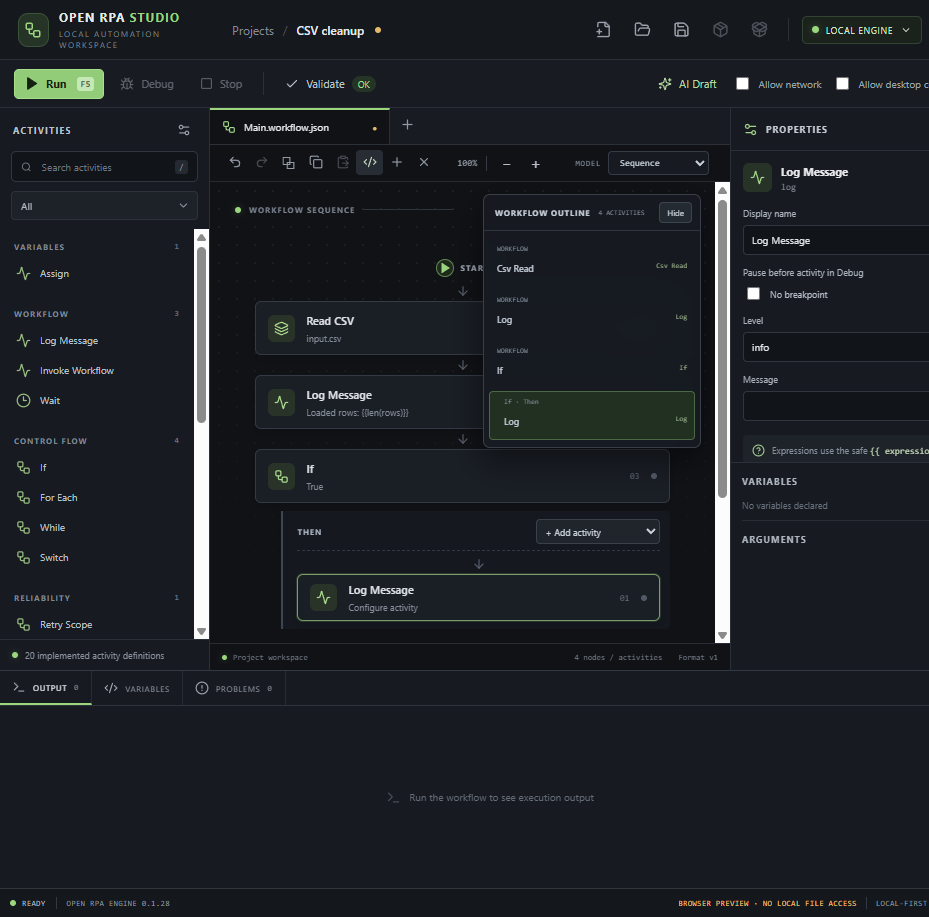
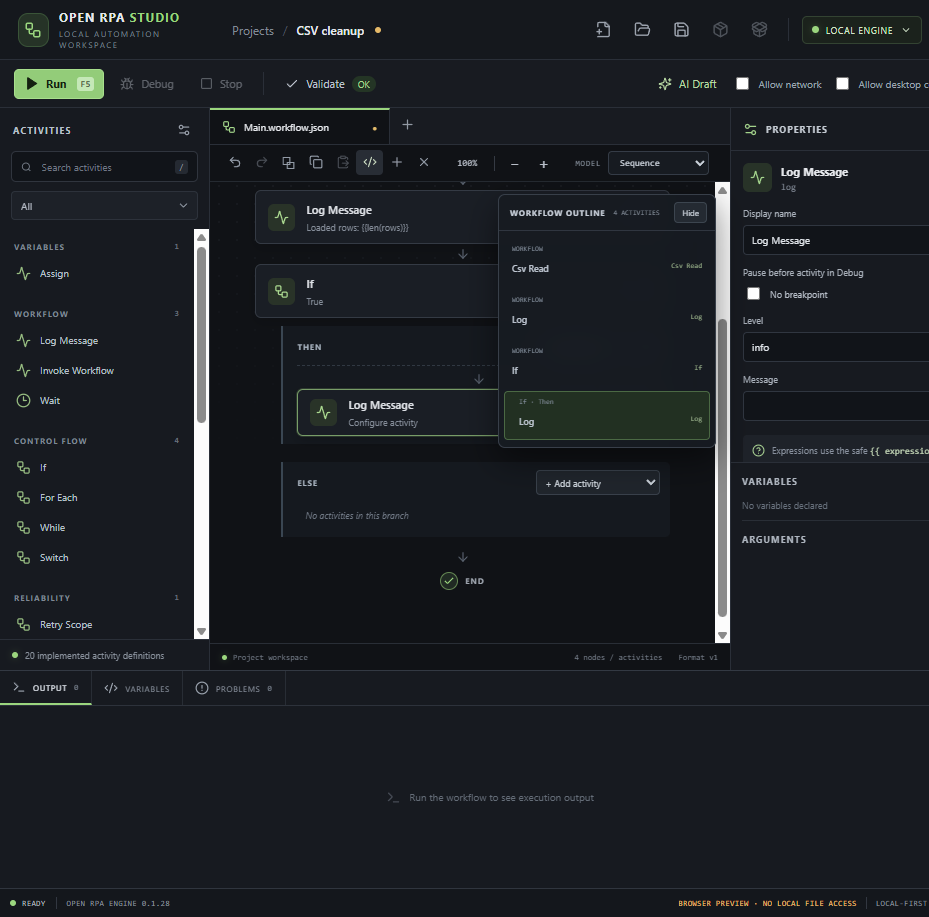
Wire sequence canvas zoom and pin workflow outline

diff --git a/src/studio/App.tsx b/src/studio/App.tsx
@@ -7,6 +7,7 @@ import { appendNestedActivity, duplicateNestedActivity, findNestedActivity, inse
 import { FlowchartEditor } from './FlowchartEditor';
 import { StateMachineMap } from './StateMachineMap';
 import { WorkflowOutline } from './WorkflowOutline';
+import { adjustCanvasZoom,MAX_CANVAS_ZOOM,MIN_CANVAS_ZOOM } from './canvasZoom';
 import { AiModelPicker } from './AiModelPicker';
 import { InvokeWorkflowEditor } from './InvokeWorkflowEditor';
 import { insertFlowchartAction, reconnectFlowchartTransition } from './flowchartEditing';
@@ -30,7 +31,7 @@ function draftPreview(workflow:Workflow):{summary:string;items:{id:string;label:
 const iconFor=(type:string)=>type==='if'||type==='for_each'||type==='while'||type==='retry'||type==='switch'||type==='try'?<WorkflowIcon size={15}/>:type.includes('csv')||type.includes('json')?<Layers size={15}/>:type.includes('file')?<HardDrive size={15}/>:type==='wait'?<Clock3 size={15}/>:<ActivityIcon size={15}/>;
 
 export default function App(){
-  const [opened,setOpened]=useState<BridgeResult>(sample);const [active,setActive]=useState('Main');const [workflowHistories,setWorkflowHistories]=useState<Record<string,WorkflowHistory<Workflow>>>({});const [catalog,setCatalog]=useState<CatalogEntry[]>([]);const [selected,setSelected]=useState<string>('read-csv');const [activityClipboard,setActivityClipboard]=useState<Activity|null>(null);const [filter,setFilter]=useState('All');const [search,setSearch]=useState('');const [run,setRun]=useState<RunResult|null>(null);const [events,setEvents]=useState<Record<string,unknown>[]>([]);const [runHistory,setRunHistory]=useState<RunHistorySummary[]>([]);const [selectedRunId,setSelectedRunId]=useState('');const [selectedRunDetail,setSelectedRunDetail]=useState<RunHistoryDetail|null>(null);const [runHistoryLoading,setRunHistoryLoading]=useState(false);const runHistoryRequest=useRef(0);const [auditHistory,setAuditHistory]=useState<any[]>([]);const [adapterStatus,setAdapterStatus]=useState<any>(null);const [busy,setBusy]=useState(false);const [debugMode,setDebugMode]=useState(false);const [debugState,setDebugState]=useState<'off'|'starting'|'running'|'paused'|'finished'>('off');const [debugActivity,setDebugActivity]=useState('');const [debugVariables,setDebugVariables]=useState<Record<string,unknown>>({});const [debugEditable,setDebugEditable]=useState<string[]>([]);const [debugWatches,setDebugWatches]=useState<string[]>([]);const [debugWatchResults,setDebugWatchResults]=useState<Record<string,DebugWatchResult>>({});const debugWatchRequest=useRef(0);const [problems,setProblems]=useState<any[]>([]);const [notice,setNotice]=useState('');const [allowNetwork,setAllowNetwork]=useState(false);const [allowDesktop,setAllowDesktop]=useState(false);const [pendingRun,setPendingRun]=useState<boolean|null>(null);const [runGrantNetwork,setRunGrantNetwork]=useState(false);const [runGrantDesktop,setRunGrantDesktop]=useState(false);const [runConfirmDestructive,setRunConfirmDestructive]=useState(false);const [showAi,setShowAi]=useState(false);const [showInspector,setShowInspector]=useState(false);const [showInspectMenu,setShowInspectMenu]=useState(false);const [showDesktopInspector,setShowDesktopInspector]=useState(false);const [desktopWindows,setDesktopWindows]=useState<DesktopWindow[]>([]);const [desktopWindow,setDesktopWindow]=useState<DesktopWindow|null>(null);const [desktopControls,setDesktopControls]=useState<DesktopControl[]>([]);const [desktopInspectError,setDesktopInspectError]=useState('');const [desktopInspectBusy,setDesktopInspectBusy]=useState(false);const [inspectUrl,setInspectUrl]=useState('https://example.org');const [inspectPage,setInspectPage]=useState<{url:string;title:string;status:number|null}|null>(null);const [inspectControls,setInspectControls]=useState<any[]>([]);const [inspectError,setInspectError]=useState('');const [inspectBusy,setInspectBusy]=useState(false);const [recording,setRecording]=useState(false);const [recordedEvents,setRecordedEvents]=useState<Record<string,unknown>[]>([]);const [recordTruncated,setRecordTruncated]=useState(false);const [aiPrompt,setAiPrompt]=useState('');const [lastFailure,setLastFailure]=useState<{workflowName:string;workflow:Workflow;failure:RepairFailure}|null>(null);const [aiDraftMode,setAiDraftMode]=useState<'sequence'|'flowchart'|'state_machine'>('sequence');const [aiProvider,setAiProvider]=useState('ollama');const [aiProviders,setAiProviders]=useState<any[]>([]);const [aiConnections,setAiConnections]=useState<AiConnectionProfile[]>([]);const [aiConnectionId,setAiConnectionId]=useState('');const [aiConnectionName,setAiConnectionName]=useState('');const [aiBaseUrl,setAiBaseUrl]=useState('');const [aiCredentialService,setAiCredentialService]=useState('');const [aiCredentialUsername,setAiCredentialUsername]=useState('');const [aiCredentialSecret,setAiCredentialSecret]=useState('');const [aiModel,setAiModel]=useState('');const [aiModels,setAiModels]=useState<string[]>([]);const [aiBusy,setAiBusy]=useState(false);const [aiError,setAiError]=useState('');const [aiConnectionState,setAiConnectionState]=useState<AiConnectionState>({status:'idle'});const [aiDraft,setAiDraft]=useState<any>(null);const [tab,setTab]=useState<'logs'|'variables'|'problems'|'history'|'audit'>('logs');const [browserMode,setBrowserMode]=useState(!('__TAURI_INTERNALS__' in window));
+  const [opened,setOpened]=useState<BridgeResult>(sample);const [active,setActive]=useState('Main');const [workflowHistories,setWorkflowHistories]=useState<Record<string,WorkflowHistory<Workflow>>>({});const [catalog,setCatalog]=useState<CatalogEntry[]>([]);const [selected,setSelected]=useState<string>('read-csv');const [activityClipboard,setActivityClipboard]=useState<Activity|null>(null);const [filter,setFilter]=useState('All');const [search,setSearch]=useState('');const [run,setRun]=useState<RunResult|null>(null);const [events,setEvents]=useState<Record<string,unknown>[]>([]);const [runHistory,setRunHistory]=useState<RunHistorySummary[]>([]);const [selectedRunId,setSelectedRunId]=useState('');const [selectedRunDetail,setSelectedRunDetail]=useState<RunHistoryDetail|null>(null);const [runHistoryLoading,setRunHistoryLoading]=useState(false);const runHistoryRequest=useRef(0);const [auditHistory,setAuditHistory]=useState<any[]>([]);const [adapterStatus,setAdapterStatus]=useState<any>(null);const [busy,setBusy]=useState(false);const [debugMode,setDebugMode]=useState(false);const [debugState,setDebugState]=useState<'off'|'starting'|'running'|'paused'|'finished'>('off');const [debugActivity,setDebugActivity]=useState('');const [debugVariables,setDebugVariables]=useState<Record<string,unknown>>({});const [debugEditable,setDebugEditable]=useState<string[]>([]);const [debugWatches,setDebugWatches]=useState<string[]>([]);const [debugWatchResults,setDebugWatchResults]=useState<Record<string,DebugWatchResult>>({});const debugWatchRequest=useRef(0);const [problems,setProblems]=useState<any[]>([]);const [notice,setNotice]=useState('');const [allowNetwork,setAllowNetwork]=useState(false);const [allowDesktop,setAllowDesktop]=useState(false);const [pendingRun,setPendingRun]=useState<boolean|null>(null);const [runGrantNetwork,setRunGrantNetwork]=useState(false);const [runGrantDesktop,setRunGrantDesktop]=useState(false);const [runConfirmDestructive,setRunConfirmDestructive]=useState(false);const [showAi,setShowAi]=useState(false);const [showInspector,setShowInspector]=useState(false);const [showInspectMenu,setShowInspectMenu]=useState(false);const [showDesktopInspector,setShowDesktopInspector]=useState(false);const [desktopWindows,setDesktopWindows]=useState<DesktopWindow[]>([]);const [desktopWindow,setDesktopWindow]=useState<DesktopWindow|null>(null);const [desktopControls,setDesktopControls]=useState<DesktopControl[]>([]);const [desktopInspectError,setDesktopInspectError]=useState('');const [desktopInspectBusy,setDesktopInspectBusy]=useState(false);const [inspectUrl,setInspectUrl]=useState('https://example.org');const [inspectPage,setInspectPage]=useState<{url:string;title:string;status:number|null}|null>(null);const [inspectControls,setInspectControls]=useState<any[]>([]);const [inspectError,setInspectError]=useState('');const [inspectBusy,setInspectBusy]=useState(false);const [recording,setRecording]=useState(false);const [recordedEvents,setRecordedEvents]=useState<Record<string,unknown>[]>([]);const [recordTruncated,setRecordTruncated]=useState(false);const [aiPrompt,setAiPrompt]=useState('');const [lastFailure,setLastFailure]=useState<{workflowName:string;workflow:Workflow;failure:RepairFailure}|null>(null);const [aiDraftMode,setAiDraftMode]=useState<'sequence'|'flowchart'|'state_machine'>('sequence');const [aiProvider,setAiProvider]=useState('ollama');const [aiProviders,setAiProviders]=useState<any[]>([]);const [aiConnections,setAiConnections]=useState<AiConnectionProfile[]>([]);const [aiConnectionId,setAiConnectionId]=useState('');const [aiConnectionName,setAiConnectionName]=useState('');const [aiBaseUrl,setAiBaseUrl]=useState('');const [aiCredentialService,setAiCredentialService]=useState('');const [aiCredentialUsername,setAiCredentialUsername]=useState('');const [aiCredentialSecret,setAiCredentialSecret]=useState('');const [aiModel,setAiModel]=useState('');const [aiModels,setAiModels]=useState<string[]>([]);const [aiBusy,setAiBusy]=useState(false);const [aiError,setAiError]=useState('');const [aiConnectionState,setAiConnectionState]=useState<AiConnectionState>({status:'idle'});const [aiDraft,setAiDraft]=useState<any>(null);const [tab,setTab]=useState<'logs'|'variables'|'problems'|'history'|'audit'>('logs');const [browserMode,setBrowserMode]=useState(!('__TAURI_INTERNALS__' in window));const [canvasZoom,setCanvasZoom]=useState(1);
   const workflow=opened.workflows[active]??opened.workflows[opened.project.main];
   const history=workflowHistories[active]??emptyWorkflowEditHistory;
   const saveCurrent=(wf:Workflow)=>{if(wf===workflow)return;setWorkflowHistories(current=>({...current,[active]:recordWorkflowChange(current[active]??emptyWorkflowHistory<Workflow>(),workflow)}));setOpened(x=>({...x,workflows:{...x.workflows,[active]:wf}}))};
@@ -123,7 +124,7 @@ export default function App(){
     <div className="toolbar"><div className="tool-group"><button className="toolbar-btn primary" disabled={busy||problems.length>0||(!opened.root&&!browserMode)} onClick={()=>void execute(false)}><Play size={15} fill="currentColor"/> Run <kbd>F5</kbd></button><button className="toolbar-btn" disabled={busy||problems.length>0||!opened.root||browserMode} onClick={()=>void execute(true)}><Bug size={14}/> Debug</button>{debugMode&&busy&&(debugState==='paused'?<><button className="toolbar-btn" onClick={()=>void controlDebug('resume')}><Play size={13}/> Continue</button><button className="toolbar-btn" onClick={()=>void controlDebug('step_over')}><StepForward size={13}/> Step Over</button><button className="toolbar-btn" onClick={()=>void controlDebug('step_into')}><StepForward size={13}/> Step Into</button><button className="toolbar-btn" onClick={()=>void controlDebug('step_out')}><StepBack size={13}/> Step Out</button></>:<button className="toolbar-btn" onClick={()=>void controlDebug('pause')}><Pause size={13}/> Pause</button>)}<button className="toolbar-btn" disabled={!busy} onClick={()=>{void cancelWorkflow().then(()=>setNotice('Cancellation requested'))}}><Square size={13}/> Stop</button><span className="toolbar-sep"/><button className="toolbar-btn" onClick={()=>setTab('problems')}><Check size={14}/> Validate <span className={problems.length?'problem-count':'valid-count'}>{problems.length||'OK'}</span></button></div><div className="toolbar-center"><span className="workflow-icon"><WorkflowIcon size={14}/></span><span>{active}</span><span className="workflow-type">{debugState==='paused'?`PAUSED · ${debugActivity}`:debugState==='starting'?'DEBUG STARTING':workflow.executionModel==='flowchart'?'FLOWCHART':workflow.executionModel==='state_machine'?'STATE MACHINE':'SEQUENCE'}</span><span className="dropdown-indicator"><ChevronDown size={13}/></span></div><div className="tool-group right-tools"><button className="toolbar-btn ai-button" onClick={()=>void openAiDraft()}><Sparkles size={14}/> AI Draft</button><label className="permission-toggle"><input type="checkbox" checked={allowNetwork} onChange={e=>setAllowNetwork(e.target.checked)}/> Allow network</label><label className="permission-toggle"><input type="checkbox" checked={allowDesktop} onChange={e=>setAllowDesktop(e.target.checked)}/> Allow desktop control</label><div className="inspect-menu-wrap"><button className="toolbar-btn subdued inspector-trigger" onClick={()=>setShowInspectMenu(value=>!value)}><Search size={14}/> Inspect UI <ChevronDown size={12}/></button>{showInspectMenu&&<div className="inspect-menu"><button onClick={()=>{setShowInspectMenu(false);void showBrowserInspector()}}>Inspect Web UI</button><button onClick={()=>void openDesktopInspector()}>Inspect Desktop Accessibility</button></div>}</div></div></div>
     <main className="workspace">
       <aside className="left-panel"><div className="panel-heading"><span>ACTIVITIES</span><button className="tiny-icon" title="Activity library options"><Settings2 size={14}/></button></div><div className="search-box"><Search size={14}/><input value={search} onChange={e=>setSearch(e.target.value)} placeholder="Search activities"/><kbd>/</kbd></div><div className="category-select"><select value={filter} onChange={e=>setFilter(e.target.value)}>{categories.map(c=><option key={c}>{c}</option>)}</select><ChevronDown size={13}/></div><div className="activity-groups">{Object.entries(groups).map(([category,items])=><section key={category} className="activity-group"><div className="group-title">{category.toUpperCase()} <span>{items.length}</span></div>{items.map(entry=><button key={entry.type} className="activity-item" draggable onDragStart={e=>e.dataTransfer.setData('application/openrpa-activity',entry.type)} onClick={()=>add(entry)} title={`${entry.description} Click to add.`}>{iconFor(entry.type)}<span>{entry.title}</span><Plus size={12} className="activity-add"/></button>)}</section>)}</div><div className="activity-foot"><span className="green-dot"/> {catalog.length} implemented activity definitions</div></aside>
-      <section className="designer"><div className="tabbar"><div className="tab active"><WorkflowIcon size={14}/><span>{active}.workflow.json</span><span className="unsaved">●</span></div><button className="tab-add" title="New workflow" onClick={()=>{const name=`Workflow${Object.keys(opened.workflows).length+1}`;setOpened(x=>({...x,project:{...x.project,workflows:{...x.project.workflows,[name]:`workflows/${name.toLowerCase()}.workflow.json`}},workflows:{...x.workflows,[name]:{format:'openrpa.workflow',formatVersion:1,name,variables:[],arguments:[],activities:[]}}}));setActive(name)}}><Plus size={15}/></button></div><div className="canvas-toolbar"><div><button className="canvas-tool" aria-label="Undo last workflow edit" title="Undo (Ctrl+Z)" disabled={!canUndo} onClick={()=>restoreWorkflow("undo")}><Undo2 size={14}/></button><button className="canvas-tool" aria-label="Redo workflow edit" title="Redo (Ctrl+Y)" disabled={!canRedo} onClick={()=>restoreWorkflow("redo")}><Redo2 size={14}/></button><button title="Duplicate selected activity (Ctrl+D)" aria-label="Duplicate selected activity" className="canvas-tool" disabled={!selectedActivity} onClick={duplicateSelected}>⧉</button><button title="Copy selected activity (Ctrl+C)" aria-label="Copy selected activity" className="canvas-tool" disabled={!selectedActivity} onClick={copySelected}><CopyIcon size={14}/></button><button title="Paste activity after selection (Ctrl+V)" aria-label="Paste activity" className="canvas-tool" disabled={!activityClipboard} onClick={pasteActivity}><ClipboardPaste size={14}/></button><button title="Select" className="canvas-tool active"><Code2 size={14}/></button><button title="Add activity" className="canvas-tool" onClick={()=>document.querySelector<HTMLInputElement>('.search-box input')?.focus()}><Plus size={14}/></button>{workflow.executionModel==="sequence"&&<><button title="Move selected step up" className="canvas-tool" onClick={()=>moveSelected(-1)}>↑</button><button title="Move selected step down" className="canvas-tool" onClick={()=>moveSelected(1)}>↓</button></>}<button title={workflow.executionModel==="flowchart"?"Delete selected node":"Delete selected activity"} className="canvas-tool" onClick={remove}><X size={14}/></button></div><div className="zoom-controls"><span>100%</span><span className="zoom-sep"/><button title="Zoom out">−</button><button title="Zoom in">+</button></div><label className="model-select">MODEL<select aria-label="Workflow execution model" value={workflow.executionModel??"sequence"} onChange={event=>changeExecutionModel(event.target.value as "sequence"|"flowchart"|"state_machine")}><option value="sequence">Sequence</option><option value="flowchart">Flowchart</option><option value="state_machine">State Machine</option></select></label></div><div className="workflow-canvas" onDragOver={e=>e.preventDefault()} onDrop={e=>{e.preventDefault();const type=e.dataTransfer.getData("application/openrpa-activity");const entry=catalog.find(x=>x.type===type);if(entry)add(entry);}}>{workflow.executionModel==="flowchart"&&workflow.flowchart?<FlowchartEditor graph={workflow.flowchart} selected={selected} onSelect={setSelected} onAddNode={addGraphNode} onConnect={connectGraph} onRemove={removeGraphNode} onPositionChange={(id,x,y)=>patchGraphNode(id,{x,y})}/>:workflow.executionModel==="state_machine"&&workflow.stateMachine?<StateMachineEditor machine={workflow.stateMachine} selected={selected} run={run} catalog={catalog} onSelect={setSelected} onChange={stateMachine=>saveCurrent({...workflow,stateMachine})} onAddActivity={add} onPatch={update}/>:<><WorkflowOutline activities={workflow.activities} selected={selected} onSelect={setSelected}/><div className="canvas-grid"/><div className="flow-label"><span className="green-dot"/> WORKFLOW SEQUENCE <span className="flow-line"/></div><div className="sequence"><div className="start-node"><span className="play-ring"><Play size={12} fill="currentColor"/></span><span>START</span></div><ActivitySequence items={workflow.activities} depth={0} selected={selected} run={run} catalog={catalog} onSelect={setSelected} onAdd={addToBranch} onPatch={update}/><div className="connector end-connector"><ArrowDown size={14}/></div><div className="end-node"><span className="check-ring"><Check size={12}/></span><span>END</span></div></div><div className="canvas-hint">Drag activities here, add activities inside branches, or use the step controls to reorder siblings</div></>}</div><div className="canvas-footer"><span><span className="green-dot"/> Project workspace</span><span>{workflow.executionModel==="flowchart"?workflow.flowchart?.nodes.length??0:workflow.executionModel==="state_machine"?workflow.stateMachine?.states.length??0:countActivities(workflow.activities)} nodes / activities</span><span>Format v{workflow.formatVersion}</span></div></section>
+      <section className="designer"><div className="tabbar"><div className="tab active"><WorkflowIcon size={14}/><span>{active}.workflow.json</span><span className="unsaved">●</span></div><button className="tab-add" title="New workflow" onClick={()=>{const name=`Workflow${Object.keys(opened.workflows).length+1}`;setOpened(x=>({...x,project:{...x.project,workflows:{...x.project.workflows,[name]:`workflows/${name.toLowerCase()}.workflow.json`}},workflows:{...x.workflows,[name]:{format:'openrpa.workflow',formatVersion:1,name,variables:[],arguments:[],activities:[]}}}));setActive(name)}}><Plus size={15}/></button></div><div className="canvas-toolbar"><div><button className="canvas-tool" aria-label="Undo last workflow edit" title="Undo (Ctrl+Z)" disabled={!canUndo} onClick={()=>restoreWorkflow("undo")}><Undo2 size={14}/></button><button className="canvas-tool" aria-label="Redo workflow edit" title="Redo (Ctrl+Y)" disabled={!canRedo} onClick={()=>restoreWorkflow("redo")}><Redo2 size={14}/></button><button title="Duplicate selected activity (Ctrl+D)" aria-label="Duplicate selected activity" className="canvas-tool" disabled={!selectedActivity} onClick={duplicateSelected}>⧉</button><button title="Copy selected activity (Ctrl+C)" aria-label="Copy selected activity" className="canvas-tool" disabled={!selectedActivity} onClick={copySelected}><CopyIcon size={14}/></button><button title="Paste activity after selection (Ctrl+V)" aria-label="Paste activity" className="canvas-tool" disabled={!activityClipboard} onClick={pasteActivity}><ClipboardPaste size={14}/></button><button title="Select" className="canvas-tool active"><Code2 size={14}/></button><button title="Add activity" className="canvas-tool" onClick={()=>document.querySelector<HTMLInputElement>('.search-box input')?.focus()}><Plus size={14}/></button>{workflow.executionModel==="sequence"&&<><button title="Move selected step up" className="canvas-tool" onClick={()=>moveSelected(-1)}>↑</button><button title="Move selected step down" className="canvas-tool" onClick={()=>moveSelected(1)}>↓</button></>}<button title={workflow.executionModel==="flowchart"?"Delete selected node":"Delete selected activity"} className="canvas-tool" onClick={remove}><X size={14}/></button></div>{(workflow.executionModel??"sequence")==="sequence"&&<div className="zoom-controls"><button className="zoom-level" type="button" aria-label="Reset sequence zoom" title="Reset zoom to 100%" onClick={()=>setCanvasZoom(1)}>{Math.round(canvasZoom*100)}%</button><span className="zoom-sep"/><button type="button" aria-label="Zoom out" title="Zoom out" disabled={canvasZoom<=MIN_CANVAS_ZOOM} onClick={()=>setCanvasZoom(value=>adjustCanvasZoom(value,-1))}>−</button><button type="button" aria-label="Zoom in" title="Zoom in" disabled={canvasZoom>=MAX_CANVAS_ZOOM} onClick={()=>setCanvasZoom(value=>adjustCanvasZoom(value,1))}>+</button></div>}<label className="model-select">MODEL<select aria-label="Workflow execution model" value={workflow.executionModel??"sequence"} onChange={event=>changeExecutionModel(event.target.value as "sequence"|"flowchart"|"state_machine")}><option value="sequence">Sequence</option><option value="flowchart">Flowchart</option><option value="state_machine">State Machine</option></select></label></div><div className="workflow-canvas" onDragOver={e=>e.preventDefault()} onDrop={e=>{e.preventDefault();const type=e.dataTransfer.getData("application/openrpa-activity");const entry=catalog.find(x=>x.type===type);if(entry)add(entry);}}>{workflow.executionModel==="flowchart"&&workflow.flowchart?<FlowchartEditor graph={workflow.flowchart} selected={selected} onSelect={setSelected} onAddNode={addGraphNode} onConnect={connectGraph} onRemove={removeGraphNode} onPositionChange={(id,x,y)=>patchGraphNode(id,{x,y})}/>:workflow.executionModel==="state_machine"&&workflow.stateMachine?<StateMachineEditor machine={workflow.stateMachine} selected={selected} run={run} catalog={catalog} onSelect={setSelected} onChange={stateMachine=>saveCurrent({...workflow,stateMachine})} onAddActivity={add} onPatch={update}/>:<><WorkflowOutline activities={workflow.activities} selected={selected} onSelect={setSelected}/><div className="canvas-grid"/><div className="flow-label"><span className="green-dot"/> WORKFLOW SEQUENCE <span className="flow-line"/></div><div className="sequence" style={{zoom:canvasZoom}}><div className="start-node"><span className="play-ring"><Play size={12} fill="currentColor"/></span><span>START</span></div><ActivitySequence items={workflow.activities} depth={0} selected={selected} run={run} catalog={catalog} onSelect={setSelected} onAdd={addToBranch} onPatch={update}/><div className="connector end-connector"><ArrowDown size={14}/></div><div className="end-node"><span className="check-ring"><Check size={12}/></span><span>END</span></div></div><div className="canvas-hint">Drag activities here, add activities inside branches, or use the step controls to reorder siblings</div></>}</div><div className="canvas-footer"><span><span className="green-dot"/> Project workspace</span><span>{workflow.executionModel==="flowchart"?workflow.flowchart?.nodes.length??0:workflow.executionModel==="state_machine"?workflow.stateMachine?.states.length??0:countActivities(workflow.activities)} nodes / activities</span><span>Format v{workflow.formatVersion}</span></div></section>
       <aside className="right-panel"><div className="inspector-head"><div><Settings2 size={15}/><strong>PROPERTIES</strong></div><button className="tiny-icon" onClick={remove} title="Remove activity"><X size={15}/></button></div>{selectedActivity?<div className="inspector-content"><div className="selected-type">{iconFor(selectedActivity.type)}<div><strong>{labelFor(selectedActivity.type)}</strong><small>{selectedActivity.type}</small></div></div>{selectedActivity.type==="invoke_workflow"&&<InvokeWorkflowEditor activity={selectedActivity} workflows={opened.workflows} currentWorkflow={active} onPatch={patch=>update(selectedActivity.id,patch)}/>}<div className="field"><label>Display name</label><input value={String(selectedActivity.label??labelFor(selectedActivity.type))} onChange={e=>update(selectedActivity.id,{label:e.target.value})}/></div><div className="field"><label>Pause before activity in Debug</label><label className="checkbox-field"><input type="checkbox" checked={selectedActivity.breakpoint===true} onChange={e=>update(selectedActivity.id,{breakpoint:e.target.checked,...(!e.target.checked?{breakpointCondition:undefined}:{})})}/>{selectedActivity.breakpoint===true?'Breakpoint enabled':'No breakpoint'}</label></div>{selectedActivity.breakpoint===true&&<div className="field"><label>Pause only when condition is true</label><input aria-label="Breakpoint condition" maxLength={2048} placeholder="Optional, e.g. order.total > 100" value={String(selectedActivity.breakpointCondition??'')} onChange={e=>update(selectedActivity.id,{breakpointCondition:e.target.value||undefined})}/><small className="field-hint">Evaluated with the safe expression language at this activity boundary. Invalid conditions pause for review.</small></div>}{Object.entries(selectedActivity).filter(([k])=>!['id','type','label','breakpoint','breakpointCondition','then','else','body','catch','finally','cases','default','workflow','inputs','outputs','resultTarget'].includes(k)).map(([key,value])=><div className="field" key={key}><label>{humanize(key)}</label>{typeof value==='boolean'?<label className="checkbox-field"><input type="checkbox" checked={value} onChange={e=>update(selectedActivity.id,{[key]:e.target.checked})}/>{value?'Enabled':'Disabled'}</label>:typeof value==='number'?<input type="number" value={value} onChange={e=>update(selectedActivity.id,{[key]:Number(e.target.value)})}/>:typeof value==='object'?<textarea rows={Math.min(8,Math.max(3,JSON.stringify(value).split('\n').length))} value={JSON.stringify(value,null,2)} onChange={e=>{try{update(selectedActivity.id,{[key]:JSON.parse(e.target.value)})}catch{}}}/>:<input value={String(value??'')} onChange={e=>update(selectedActivity.id,{[key]:e.target.value})}/>}</div>)}<div className="field-note"><CircleHelp size={13}/><span>Expressions use the safe <code>{'{{ expression }}'}</code> form. Python code is never executed.</span></div><button className="delete-activity" onClick={remove}><X size={14}/> Remove activity</button></div> :selectedGraphNode?<div className="inspector-content"><div className="selected-type"><WorkflowIcon size={15}/><div><strong>{selectedGraphNode.kind.toUpperCase()} NODE</strong><small>{selectedGraphNode.id}</small></div></div><div className="field"><label>Display name</label><input value={selectedGraphNode.label??selectedGraphNode.kind} onChange={event=>patchGraphNode(selectedGraphNode.id,{label:event.target.value})}/></div><div className="field"><label>Pause before node in Debug</label><label className="checkbox-field"><input type="checkbox" checked={selectedGraphNode.breakpoint===true} onChange={event=>patchGraphNode(selectedGraphNode.id,{breakpoint:event.target.checked})}/>{selectedGraphNode.breakpoint===true?"Breakpoint enabled":"No breakpoint"}</label></div>{selectedGraphNode.kind==="decision"&&<div className="field"><label>Boolean condition</label><input value={selectedGraphNode.condition??"True"} onChange={event=>patchGraphNode(selectedGraphNode.id,{condition:event.target.value})}/></div>}<div className="field-note"><CircleHelp size={13}/><span>{selectedGraphNode.kind==="decision"?"The expression must evaluate to true or false.":"Connect this node to define the next execution step."}</span></div></div>:<div className="empty-inspector"><Settings2 size={22}/><p>Select an activity to edit its properties</p></div>}<div className="variables-block"><div className="variables-heading"><span>VARIABLES</span><button className="tiny-icon" title="Add variable" onClick={()=>saveCurrent({...workflow,variables:[...workflow.variables,{name:`variable${workflow.variables.length+1}`,type:'string',value:''}]})}><Plus size={14}/></button></div><div className="variables-list">{workflow.variables.map((v,i)=><VariableRow key={v.name+i} value={v} onChange={next=>saveCurrent({...workflow,variables:workflow.variables.map((x,j)=>i===j?next:x)})} onRemove={()=>saveCurrent({...workflow,variables:workflow.variables.filter((_,j)=>j!==i)})}/>)}{!workflow.variables.length&&<p className="empty-variable">No variables declared</p>}</div><div className="arguments-heading"><span>ARGUMENTS</span><button className="tiny-icon" title="Add argument" onClick={()=>saveCurrent({...workflow,arguments:[...workflow.arguments,{name:`argument${workflow.arguments.length+1}`,type:'string',direction:'in'}]})}><Plus size={14}/></button></div>{workflow.arguments.map((arg,i)=><ArgumentRow key={arg.name+i} value={arg} onChange={next=>saveCurrent({...workflow,arguments:workflow.arguments.map((x,j)=>i===j?next:x)})} onRemove={()=>saveCurrent({...workflow,arguments:workflow.arguments.filter((_,j)=>j!==i)})}/>)}</div></aside>
     </main>
     <section className="bottom-panel"><div className="bottom-tabs"><button className={tab==='logs'?'selected':''} onClick={()=>setTab('logs')}><Terminal size={14}/> OUTPUT <span>{events.length}</span></button><button className={tab==='variables'?'selected':''} onClick={()=>setTab('variables')}><Code2 size={14}/> VARIABLES</button><button className={tab==='problems'?'selected':''} onClick={()=>setTab('problems')}><AlertCircle size={14}/> PROBLEMS <span className={problems.length?'problem-count':''}>{problems.length}</span></button>{!browserMode&&<><button className={tab==='history'?'selected':''} onClick={()=>void openRunHistory()}><Clock3 size={14}/> HISTORY <span>{runHistory.length}</span></button><button className={tab==='audit'?'selected':''} onClick={()=>{setTab('audit');getAuditHistory().then(setAuditHistory)}}><AlertCircle size={14}/> AUDIT <span>{auditHistory.length}</span></button></>}<div className="bottom-spacer"/><button className="collapse-bottom" title="Collapse output"><ChevronDown size={15}/></button></div><div className="bottom-content">{tab==='logs'?<>{events.length?events.slice(-40).map((e,i)=><div key={i} className={`log-row ${String(e.event).includes('failed')?'error':''}`}><span className="log-time">{new Date().toLocaleTimeString()}</span><span className={`log-symbol ${String(e.event).includes('failed')?'red':e.event==='log'?'blue':'green'}`}>●</span><span className="log-event">{String(e.event).replaceAll('-',' ').toUpperCase()}</span><span className="log-detail">{String(e.message||e.error||`${e.type||''} ${e.activityId||''}`)}</span></div>):<div className="empty-output"><Terminal size={15}/><span>Run the workflow to see execution output</span></div>}</>:tab==='variables'?<><div className="runtime-variables">{Object.entries(debugMode&&debugState==='paused'?debugVariables:(run?.variables??Object.fromEntries(workflow.variables.map(v=>[v.name,v.value])))).map(([k,v])=>debugMode&&debugState==='paused'?<DebugVariableRow key={k} name={k} value={v} editable={debugEditable.includes(k)} onSave={async value=>{await setDebugVariable(k,value);setDebugVariables(current=>({...current,[k]:value}));setNotice(`Updated ${k} at the paused activity boundary.`)}}/>:<div key={k}><code>{k}</code><span>{JSON.stringify(v)}</span></div>)}</div><DebugWatchesPanel expressions={debugWatches} results={debugWatchResults} paused={debugMode&&debugState==='paused'} onAdd={addDebugWatch} onRemove={removeDebugWatch}/></>:tab==='history'?<RunHistoryPanel runs={runHistory} selectedId={selectedRunId} detail={selectedRunDetail} loading={runHistoryLoading} onSelect={id=>void selectRunHistory(id)}/>:tab==='audit'?<div className="problem-list">{auditHistory.length?auditHistory.map((item,i)=><div className="log-row" key={`${item.createdAt}-${i}`}><span className="log-time">{new Date(item.createdAt).toLocaleTimeString()}</span><span className="log-event">{String(item.action).toUpperCase()}</span><span className="log-detail">{JSON.stringify(item.details)}</span></div>):<div className="empty-output"><AlertCircle size={15}/><span>No security events recorded</span></div>}</div>:<div className="problem-list">{problems.length?problems.map((p,i)=><button key={i} onClick={()=>p.activityId&&setSelected(p.activityId)}><AlertCircle size={14}/><span>{p.message}</span><code>{p.code}</code></button>):<div className="all-clear"><Check size={14}/> No validation problems</div>}{run?.error&&<button className="runtime-error" onClick={()=>run.error?.activityId&&setSelected(run.error.activityId)}><AlertCircle size={14}/><span>{run.error.message}</span><code>{run.error.activityId||run.error.code}</code></button>}</div>}</div></section>

diff --git a/src/studio/styles.css b/src/studio/styles.css
@@ -36,4 +36,5 @@
 .debug-watches{margin:8px 12px 12px;border:1px solid #333a45;border-radius:4px;background:#1a1e24}.debug-watches>header{display:flex;align-items:center;justify-content:space-between;gap:8px;padding:7px 9px;border-bottom:1px solid #2d333d}.debug-watches>header>div{display:flex;align-items:center;gap:6px;color:#c7d0dc;font-size:8px;letter-spacing:.7px}.debug-watches>header>div svg{color:#a8d993}.debug-watches>header>div span{color:#7e8997}.debug-watches>header>small,.watch-privacy{color:#7e8794;font-size:8px}.debug-watches>form{display:flex;gap:6px;padding:7px 8px 4px}.debug-watches>form input{flex:1;min-width:0;background:#12151a;border:1px solid #3a424e;border-radius:3px;color:#d8dde5;padding:5px 7px;font:9px 'DM Mono',monospace}.debug-watches>form button:disabled{opacity:.4}.watch-privacy{display:block;padding:0 9px 7px}.watch-list{border-top:1px solid #2d333d}.watch-row{min-height:25px;display:grid;grid-template-columns:minmax(120px,35%) minmax(0,1fr) 22px;align-items:center;gap:8px;padding:3px 7px;border-bottom:1px solid #262c34;font:8px 'DM Mono',monospace}.watch-row code{color:#a8c9f0;overflow:hidden;text-overflow:ellipsis;white-space:nowrap}.watch-row span{color:#c7d0da;overflow-wrap:anywhere}.watch-row .watch-error{color:#ff9a94}.watch-row button{width:20px;height:20px}
 .field-hint{display:block;margin-top:5px;color:#818b98;font-size:8px;line-height:1.45}
 .ai-connection-status{display:flex;align-items:center;gap:7px;padding:7px 9px;margin:-5px 0 10px;border-radius:5px;font-size:10px;line-height:1.4}.ai-connection-status svg{flex:none}.ai-connection-status.idle{background:#20242b;color:#aab1bd}.ai-connection-status.checking{background:#202b34;color:#add2ec}.ai-connection-status.connected{background:#1d2c25;color:#b8d9a3}.ai-connection-status.warning{background:#302d20;color:#e7d58e}.ai-connection-status.failed{background:#332527;color:#f0aaa7;overflow-wrap:anywhere}.ai-connection-status .spin{animation:spin .9s linear infinite}@keyframes spin{to{transform:rotate(360deg)}}
-.workflow-outline{position:absolute;z-index:8;top:12px;right:14px;width:218px;max-height:calc(100% - 24px);background:#171b21ee;border:1px solid #383f49;border-radius:7px;box-shadow:0 12px 32px #0007;backdrop-filter:blur(12px);display:flex;flex-direction:column;color:#c7ced8}.workflow-outline-head{height:36px;flex:none;display:flex;align-items:center;gap:8px;padding:0 8px 0 11px;border-bottom:1px solid #303640}.workflow-outline-head strong{font-size:8px;letter-spacing:.8px;white-space:nowrap}.workflow-outline-head span{font:7px 'DM Mono',monospace;color:#7e8793;flex:1;white-space:nowrap}.workflow-outline-head button{border:1px solid #3c454f;border-radius:4px;background:#242a32;color:#d1d8e1;padding:4px 7px;font-size:8px}.workflow-outline-list{overflow:auto;min-height:0;padding:5px}.workflow-outline-list>button{width:100%;min-height:49px;display:grid;grid-template-columns:minmax(0,1fr) auto;gap:2px 7px;padding:6px 7px 6px calc(7px + var(--outline-depth)*7px);margin:2px 0;text-align:left;border:1px solid transparent;border-radius:4px;background:transparent;color:#bfc7d2}.workflow-outline-list>button:hover{background:#242b33;border-color:#38414b}.workflow-outline-list>button.selected{background:#223022;border-color:#4b6944}.workflow-outline-list .outline-branch{grid-column:1/-1;overflow:hidden;text-overflow:ellipsis;white-space:nowrap;color:#7e8996;font:7px 'DM Mono',monospace}.workflow-outline-list .outline-activity{overflow:hidden;text-overflow:ellipsis;white-space:nowrap;font-size:9px;font-weight:600}.workflow-outline-list small{color:#8fa682;font:7px 'DM Mono',monospace;white-space:nowrap}.workflow-outline-list p{padding:12px;color:#929aa5;font-size:9px}.activity-card[id^="activity-"]{scroll-margin:45% 0}
+.workflow-outline{position:fixed;z-index:8;width:218px;max-height:calc(100% - 24px);background:#171b21ee;border:1px solid #383f49;border-radius:7px;box-shadow:0 12px 32px #0007;backdrop-filter:blur(12px);display:flex;flex-direction:column;color:#c7ced8}.workflow-outline-head{height:36px;flex:none;display:flex;align-items:center;gap:8px;padding:0 8px 0 11px;border-bottom:1px solid #303640}.workflow-outline-head strong{font-size:8px;letter-spacing:.8px;white-space:nowrap}.workflow-outline-head span{font:7px 'DM Mono',monospace;color:#7e8793;flex:1;white-space:nowrap}.workflow-outline-head button{border:1px solid #3c454f;border-radius:4px;background:#242a32;color:#d1d8e1;padding:4px 7px;font-size:8px}.workflow-outline-list{overflow:auto;min-height:0;padding:5px}.workflow-outline-list>button{width:100%;min-height:49px;display:grid;grid-template-columns:minmax(0,1fr) auto;gap:2px 7px;padding:6px 7px 6px calc(7px + var(--outline-depth)*7px);margin:2px 0;text-align:left;border:1px solid transparent;border-radius:4px;background:transparent;color:#bfc7d2}.workflow-outline-list>button:hover{background:#242b33;border-color:#38414b}.workflow-outline-list>button.selected{background:#223022;border-color:#4b6944}.workflow-outline-list .outline-branch{grid-column:1/-1;overflow:hidden;text-overflow:ellipsis;white-space:nowrap;color:#7e8996;font:7px 'DM Mono',monospace}.workflow-outline-list .outline-activity{overflow:hidden;text-overflow:ellipsis;white-space:nowrap;font-size:9px;font-weight:600}.workflow-outline-list small{color:#8fa682;font:7px 'DM Mono',monospace;white-space:nowrap}.workflow-outline-list p{padding:12px;color:#929aa5;font-size:9px}.activity-card[id^="activity-"]{scroll-margin:45% 0}
+.zoom-controls button.zoom-level{width:auto;min-width:36px;height:22px;border-radius:3px;font-size:9px;padding:0 4px}.zoom-controls button.zoom-level:hover{background:#252a31;color:#e3e8ee}.zoom-controls button:disabled{opacity:.4}

diff --git a/src/studio/WorkflowOutline.tsx b/src/studio/WorkflowOutline.tsx
@@ -1,12 +1,22 @@
-import { useMemo,useState } from 'react';
+import { useEffect,useMemo,useState } from 'react';
 import type { CSSProperties } from 'react';
 import type { Activity } from './types';
 import { flattenWorkflowOutline } from './workflowOutlineModel';
 
 export function WorkflowOutline({activities,selected,onSelect}:{activities:Activity[];selected:string;onSelect:(id:string)=>void}){
   const [open,setOpen]=useState(false);
+  const [anchor,setAnchor]=useState<{top:number;right:number}|null>(null);
   const entries=useMemo(()=>flattenWorkflowOutline(activities),[activities]);
-  return <aside className={`workflow-outline ${open?'open':''}`} aria-label="Workflow outline">
+  useEffect(()=>{
+    const canvas=document.querySelector('.workflow-canvas');
+    if(!canvas)return;
+    const update=()=>{const rect=canvas.getBoundingClientRect();setAnchor({top:rect.top+12,right:Math.max(8,window.innerWidth-rect.right+14)})};
+    update();
+    const observer=new ResizeObserver(update);observer.observe(canvas);
+    window.addEventListener('resize',update);
+    return()=>{observer.disconnect();window.removeEventListener('resize',update)};
+  },[]);
+  return <aside className={`workflow-outline ${open?'open':''}`} style={anchor??undefined} aria-label="Workflow outline">
     <div className="workflow-outline-head"><strong>WORKFLOW OUTLINE</strong><span>{entries.length} ACTIVITIES</span><button type="button" aria-expanded={open} aria-label={open?'Collapse workflow outline':'Expand workflow outline'} onClick={()=>setOpen(value=>!value)}>{open?'Hide':'Outline'}</button></div>
     {open&&<nav className="workflow-outline-list" aria-label="Activities and nested branches">{entries.length?entries.map(entry=><button type="button" key={entry.id} className={selected===entry.id?'selected':''} style={{'--outline-depth':Math.min(entry.depth,8)} as CSSProperties} title={entry.context?`${entry.context} · ${entry.label}`:entry.label} aria-current={selected===entry.id?'true':undefined} onClick={()=>{onSelect(entry.id);requestAnimationFrame(()=>document.getElementById(`activity-${encodeURIComponent(entry.id)}`)?.scrollIntoView({behavior:'smooth',block:'center'}))}}><span className="outline-branch">{entry.context||'WORKFLOW'}</span><span className="outline-activity">{entry.label}</span><small>{entry.kind}</small></button>):<p>No activities in this workflow.</p>}</nav>}
   </aside>;

diff --git a/src/studio/canvasZoom.test.ts b/src/studio/canvasZoom.test.ts
@@ -1,0 +1,13 @@
+import { describe,expect,it } from 'vitest';
+import { adjustCanvasZoom,MAX_CANVAS_ZOOM,MIN_CANVAS_ZOOM } from './canvasZoom';
+
+describe('sequence canvas zoom',()=>{
+  it('changes in stable ten-percent increments',()=>{
+    expect(adjustCanvasZoom(1,1)).toBe(1.1);
+    expect(adjustCanvasZoom(1,-1)).toBe(0.9);
+  });
+  it('clamps zoom to readable bounds',()=>{
+    expect(adjustCanvasZoom(MAX_CANVAS_ZOOM,1)).toBe(MAX_CANVAS_ZOOM);
+    expect(adjustCanvasZoom(MIN_CANVAS_ZOOM,-1)).toBe(MIN_CANVAS_ZOOM);
+  });
+});

diff --git a/src/studio/canvasZoom.ts b/src/studio/canvasZoom.ts
@@ -1,0 +1,8 @@
+export const MIN_CANVAS_ZOOM=0.5;
+export const MAX_CANVAS_ZOOM=1.5;
+export const CANVAS_ZOOM_STEP=0.1;
+
+export function adjustCanvasZoom(current:number,direction:-1|1):number{
+  const next=Math.round((current+direction*CANVAS_ZOOM_STEP)*100)/100;
+  return Math.max(MIN_CANVAS_ZOOM,Math.min(MAX_CANVAS_ZOOM,next));
+}

diff --git a/README.md b/README.md
@@ -14,7 +14,7 @@ This repository contains the editor, the versioned workflow format, a separate P
 
 ![Open RPA Studio sequence editor with its navigable nested workflow outline open beside an If branch and a selected branch activity](docs/assets/workflow-outline.png)
 
-*The workflow outline includes branch context for nested activities. Select an entry to focus that activity in the sequence canvas and open its properties.*
+*The workflow outline includes branch context for nested activities and stays pinned while the canvas scrolls. Select an entry to focus that activity and open its properties.*
 
 ![Open RPA Studio state-machine graph with a selected transition and inline guard and destination editor](docs/assets/state-machine-editor.png)
 
@@ -67,7 +67,7 @@ To build the frontend only, run `npm run build`. To build the desktop host witho
 - Project and workflow files use versioned JSON formats (`openrpa.project` and `openrpa.workflow`, format version 1).
 - Export and import deterministic `.orpa` project packages from the desktop toolbar. Exports validate workflows and exclude secret files; imports verify the manifest, file hashes and paths before extracting to an empty folder.
 - Create and open local projects, add workflows, save, validate, and inspect validation problems.
-- Search a categorized activity catalog, configure activity properties, reorder sequence actions, and edit nested control-flow branches.
+- Search a categorized activity catalog, configure activity properties, reorder sequence actions, edit nested control-flow branches, and zoom sequence canvases from 50% to 150% with a reset control.
 - Author either a sequence or a flowchart. Flowcharts include Start, action, Decision, and End nodes; transitions, positions, and edits persist in the workflow file.
 - Author a state machine with named states, per-state activity sequences, ordered boolean guards, an explicit initial state, and terminal states. State visits obey the workflow execution quota; interrupted workflows are not automatically replayed.
 - See the [workflow format and state-machine example](docs/WORKFLOW-FORMAT.md) and the [architecture notes](docs/ARCHITECTURE.md).

diff --git a/CHANGELOG.md b/CHANGELOG.md
@@ -1,6 +1,8 @@
 # Changelog
 ## Unreleased
 
+- Made sequence-canvas zoom functional with a live percentage, 10% increments, 50–150% bounds, and one-click reset; graph editors retain their own zoom controls. Kept the nested workflow outline pinned to its canvas viewport during scroll so deep-branch navigation remains available after jumping to an activity.
+- Verification: 66 frontend tests pass; TypeScript and production Vite build pass. Browser preview verified zoom in (100%→110%) and reset, then selected a nested branch activity and confirmed the outline remained visible while the activity and its properties were brought into view.
 - Added a navigable workflow outline for sequence workflows. It lists nested activities with their If/Else, loop, Try/Catch/Finally, and Switch branch context; selecting an entry selects the activity, scrolls it into view, and opens its properties. Added nested branch and Switch outline tests plus a public screenshot.
 - Verification: 64 frontend tests pass; TypeScript and the production Vite build pass. Playwright preview confirmed outline expansion, live nested-branch updates, selection, and property inspection without console errors.
 - State-machine graph edges are now directly editable: select an edge to change its destination or guard, reorder guarded routes, remove it, or add a new safe `False`-guarded route. Blank guards remain the final fallback, and duplicate fallbacks are rejected. Added regression tests and a public README screenshot of the actual editor.
